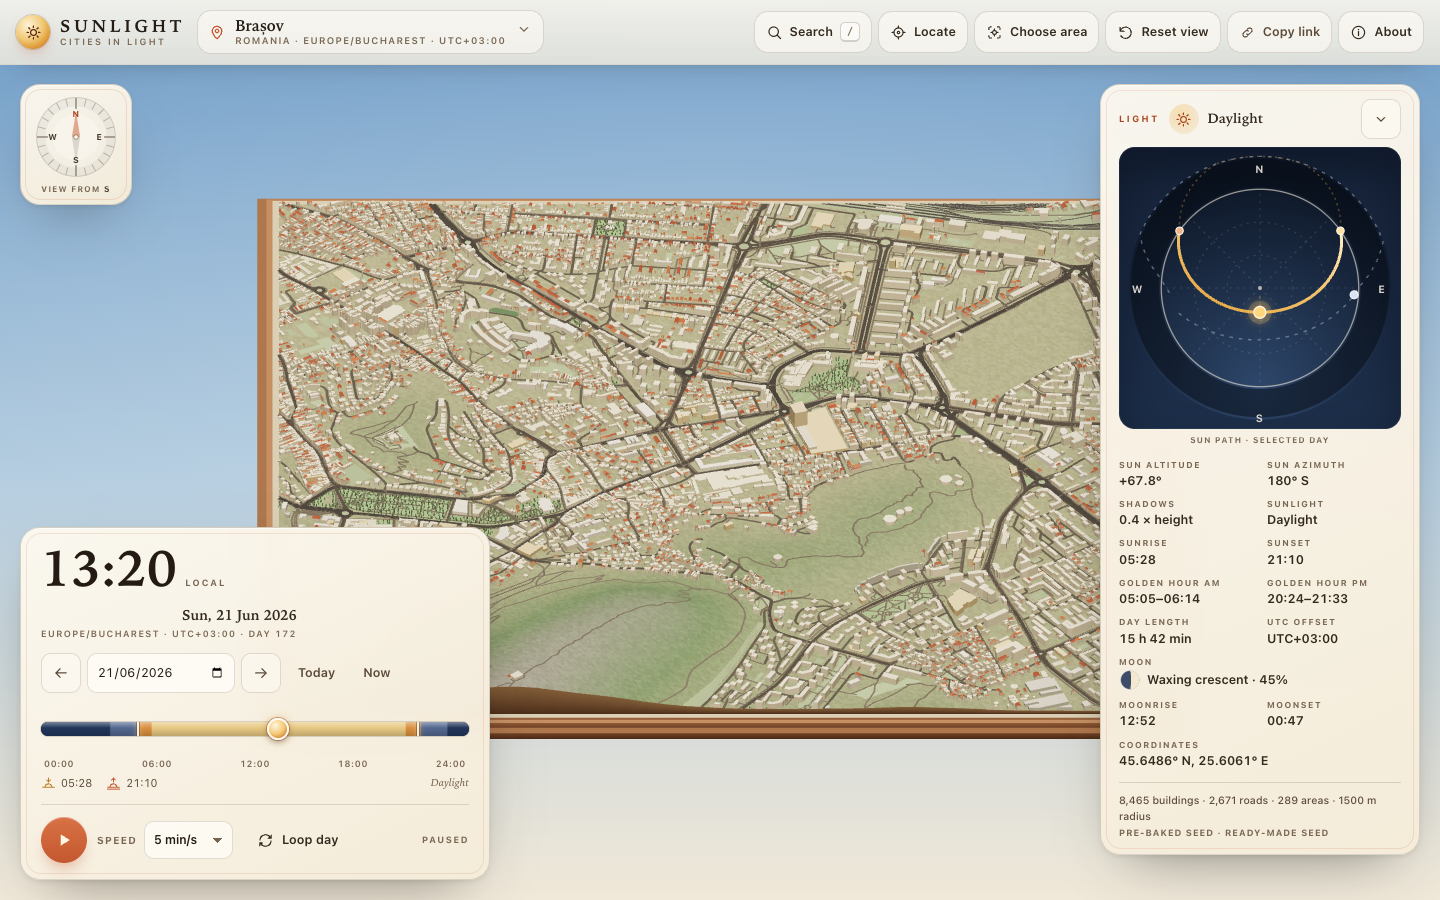
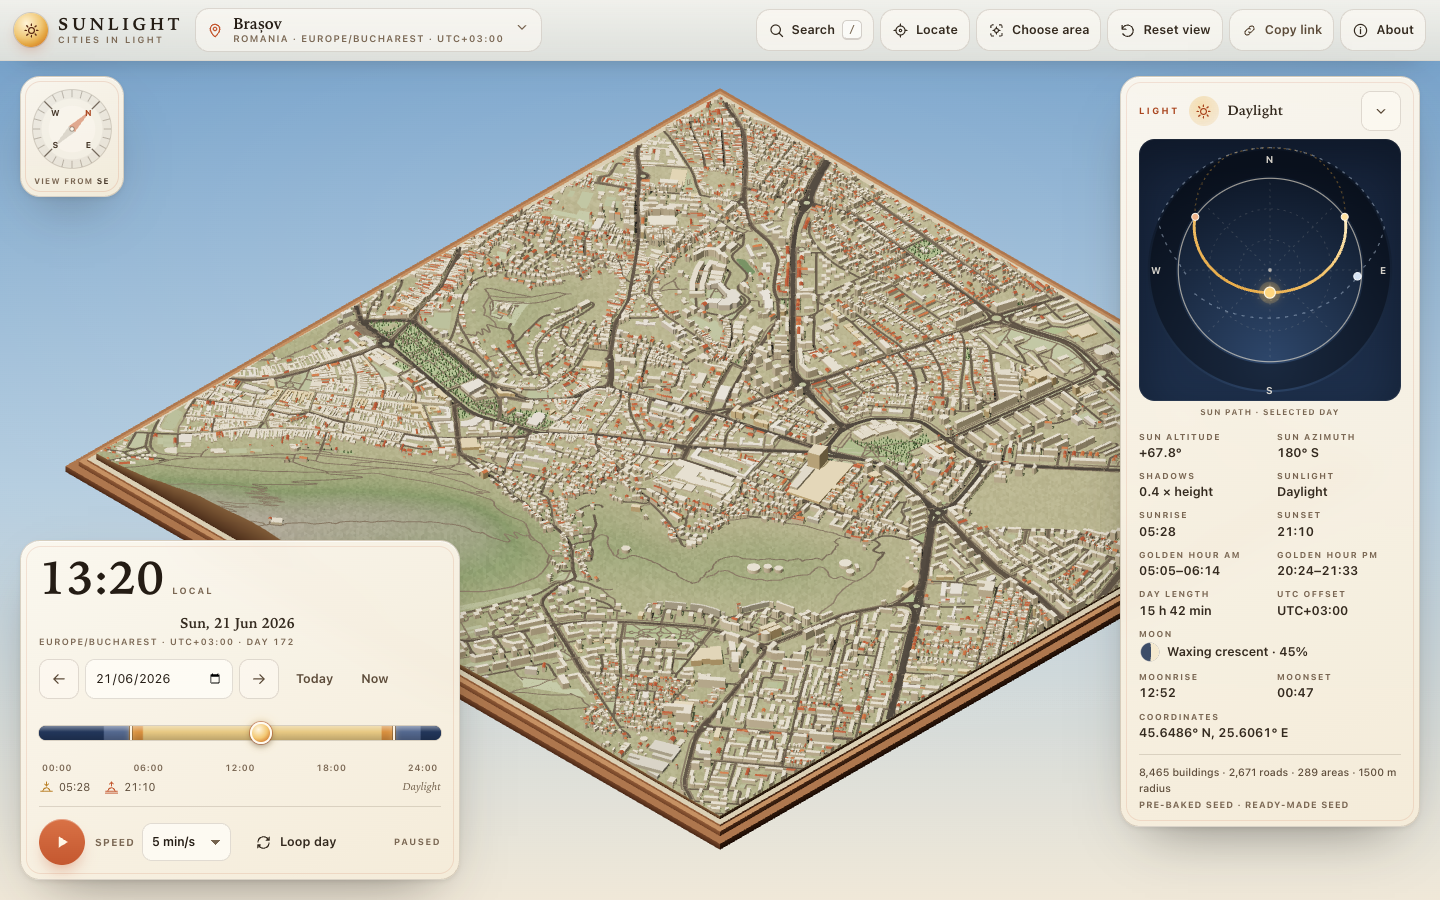
Default to NW-up isometric and compact the UI on phones

diff --git a/src/styles/app.css b/src/styles/app.css
@@ -2688,3 +2688,253 @@ body[data-picking='true'] #scene {
     transform: none;
   }
 }
+
+/* ==================================================================
+   Compact layout pass — reduce chrome so the diorama has room.
+   ================================================================== */
+
+@media (min-width: 681px) {
+  .sl-topbar {
+    min-height: 58px;
+    padding: calc(8px + var(--safe-top)) calc(14px + var(--safe-right)) 8px calc(14px + var(--safe-left));
+  }
+
+  .sl-time {
+    width: min(440px, calc(100vw - 40px));
+    gap: 11px;
+    padding: 16px 18px 14px;
+  }
+
+  .sl-clock-value {
+    font-size: clamp(36px, 4.6vw, 46px);
+  }
+
+  .sl-light {
+    top: calc(76px + var(--safe-top));
+    width: 300px;
+  }
+
+  .sl-compass {
+    top: calc(76px + var(--safe-top));
+    width: 104px;
+  }
+}
+
+@media (max-width: 680px) {
+  .sl-topbar {
+    min-height: 48px;
+    gap: 5px;
+    padding: calc(6px + var(--safe-top)) calc(8px + var(--safe-right)) 6px calc(8px + var(--safe-left));
+  }
+
+  .sl-brand-mark {
+    width: 26px;
+    height: 26px;
+  }
+
+  .sl-brand-mark .sl-ic {
+    width: 14px;
+    height: 14px;
+  }
+
+  .sl-city-chip {
+    min-height: 38px;
+    padding: 4px 8px;
+    gap: 6px;
+  }
+
+  .sl-city-chip-name {
+    font-size: 12.5px;
+  }
+
+  .sl-btn--icon {
+    width: 40px;
+    min-height: 40px;
+  }
+
+  .sl-btn--icon .sl-ic {
+    width: 15px;
+    height: 15px;
+  }
+
+  .sl-compass {
+    top: calc(56px + var(--safe-top));
+    width: 78px;
+    padding: 5px 5px 4px;
+    gap: 2px;
+  }
+
+  .sl-compass-rose {
+    width: 58px;
+    height: 58px;
+  }
+
+  .sl-compass-caption {
+    font-size: 7px;
+    letter-spacing: 0.06em;
+  }
+
+  .sl-time {
+    max-height: 58dvh;
+    padding: 10px 12px calc(8px + var(--safe-bottom));
+    gap: 7px;
+    border-radius: 18px 18px 0 0;
+  }
+
+  .sl-time::after {
+    inset: 4px;
+    border-radius: 14px;
+  }
+
+  .sl-time-head {
+    align-items: center;
+    flex-wrap: nowrap;
+    gap: 6px;
+  }
+
+  .sl-clock {
+    gap: 5px;
+  }
+
+  .sl-clock-value {
+    font-size: 32px;
+    line-height: 1;
+  }
+
+  .sl-clock-unit {
+    display: none;
+  }
+
+  .sl-date {
+    flex: 1;
+    text-align: right;
+  }
+
+  .sl-date-long {
+    font-size: 11.5px;
+  }
+
+  .sl-date-meta {
+    display: none;
+  }
+
+  .sl-date-row {
+    gap: 3px;
+  }
+
+  .sl-date-row .sl-icon-btn {
+    width: 34px;
+    height: 34px;
+    min-width: 34px;
+    border-radius: 8px;
+  }
+
+  .sl-date-input {
+    min-height: 34px;
+    min-width: 112px;
+    padding: 0 6px;
+    font-size: 11.5px;
+  }
+
+  .sl-date-row .sl-btn {
+    min-height: 34px;
+    padding: 0 6px;
+    font-size: 11px;
+  }
+
+  .sl-slider-block {
+    gap: 2px;
+  }
+
+  .sl-slider {
+    height: 34px;
+  }
+
+  .sl-range {
+    height: 34px;
+  }
+
+  .sl-range::-webkit-slider-runnable-track {
+    height: 34px;
+  }
+
+  .sl-range::-webkit-slider-thumb {
+    margin-top: 8px;
+    width: 18px;
+    height: 18px;
+  }
+
+  .sl-range::-moz-range-track {
+    height: 34px;
+  }
+
+  .sl-range::-moz-range-thumb {
+    width: 18px;
+    height: 18px;
+  }
+
+  .sl-slider-rail {
+    height: 10px;
+  }
+
+  .sl-slider-tick {
+    height: 18px;
+  }
+
+  .sl-scale {
+    font-size: 8px;
+  }
+
+  .sl-sun-row {
+    gap: 8px;
+    font-size: 9.5px;
+  }
+
+  .sl-sun-row .sl-ic {
+    width: 13px;
+    height: 13px;
+  }
+
+  .sl-transport {
+    gap: 5px;
+    padding-top: 7px;
+  }
+
+  .sl-play {
+    width: 40px;
+    height: 40px;
+  }
+
+  .sl-select {
+    min-height: 34px;
+    padding: 0 22px 0 7px;
+    font-size: 11px;
+  }
+
+  .sl-light-toggle-phone {
+    min-height: 34px;
+    padding: 0 8px;
+  }
+
+  .sl-light-toggle-phone .sl-btn-label {
+    display: inline;
+    font-size: 11px;
+  }
+
+  .sl-loop {
+    min-height: 34px;
+    padding: 0 6px;
+  }
+
+  .sl-loop .sl-btn-label {
+    display: none;
+  }
+
+  .sl-notices {
+    top: calc(54px + var(--safe-top));
+  }
+
+  .sl-area-pick {
+    top: calc(56px + var(--safe-top));
+  }
+}

diff --git a/src/ui/compass.ts b/src/ui/compass.ts
@@ -102,7 +102,7 @@ export function createCompass(ctx: UIContext): CompassHandle {
         <circle class="sl-compass-hub" cx="48" cy="48" r="2.4"/>
       </svg>
     </span>
-    <span class="sl-compass-caption">${viewFromLabel(180)}</span>
+    <span class="sl-compass-caption">${viewFromLabel(135)}</span>
   `
   );
   element.dataset.testid = 'compass';
@@ -114,7 +114,7 @@ export function createCompass(ctx: UIContext): CompassHandle {
   const caption = q<HTMLElement>(element, '.sl-compass-caption');
   const viewDirection = document.createElement('b');
   viewDirection.dataset.testid = 'compass-view';
-  viewDirection.textContent = compassDirection(180);
+  viewDirection.textContent = compassDirection(135);
   caption.replaceChildren(document.createTextNode('View from '), viewDirection);
   const labels = Array.from(element.querySelectorAll<SVGTextElement>('.sl-compass-label'));
 
@@ -147,7 +147,7 @@ export function createCompass(ctx: UIContext): CompassHandle {
     applyAzimuth(state.cameraAzimuthDeg);
   }
 
-  applyAzimuth(180);
+  applyAzimuth(135);
 
   return {
     element,

diff --git a/src/scene/camera.ts b/src/scene/camera.ts
@@ -11,9 +11,9 @@ import { panDeltaFromDrag, type PanView } from './light.ts';
 
 const DEG_TO_RAD = Math.PI / 180;
 
-/** Default isometric azimuth (degrees clockwise from north): camera due south,
- *  so world north points straight up on screen. */
-export const DEFAULT_AZIMUTH_DEG = 180;
+/** Default isometric azimuth (degrees clockwise from north): camera in the
+ *  south-east, so world north-west points straight up on screen. */
+export const DEFAULT_AZIMUTH_DEG = 135;
 /**
  * Azimuth used when computing a conservative camera fit. A square base
  * projects widest at the 45° diagonal, so fitting there also covers the 180°

diff --git a/tests/unit/scene-camera.test.ts b/tests/unit/scene-camera.test.ts
@@ -51,9 +51,9 @@ function close(actual: number, expected: number, tolerance = 1e-6, label = ''): 
   );
 }
 
-test('default isometric pose looks north (180° azimuth) / 35.264° pitch / 1x zoom', () => {
+test('default isometric pose looks south-east with NW up (135° azimuth) / 35.264° pitch / 1x zoom', () => {
   const pose = defaultPose(12, 4, -9);
-  assert.equal(pose.azimuthDeg, 180);
+  assert.equal(pose.azimuthDeg, 135);
   close(pose.pitchDeg, 35.264389682754654, 1e-9);
   assert.equal(pose.zoom, DEFAULT_ZOOM);
   assert.deepEqual([pose.targetX, pose.targetY, pose.targetZ], [12, 4, -9]);

diff --git a/src/scene/controls.ts b/src/scene/controls.ts
@@ -2,7 +2,7 @@
  * Diorama camera controls (pointer + touch), independent of the store/UI.
  *
  * Interaction contract:
- *  - default view                 → isometric from the south, north up
+ *  - default view                 → isometric from the south-east, NW up
  *  - left-drag (mouse)            → pan on the ground plane
  *  - right/middle-drag, shift-drag → orbit (azimuth 0-360, pitch 18-72°)
  *  - wheel / trackpad-pinch / touch pinch → zoom (0.45x-8x)

diff --git a/src/app/state.ts b/src/app/state.ts
@@ -112,7 +112,7 @@ export function createInitialState(): AppState {
     generatingName: null,
     error: null,
     current: null,
-    cameraAzimuthDeg: 180,
+    cameraAzimuthDeg: 135,
     hover: null,
     pickingArea: false,
     notices: [],

diff --git a/README.md b/README.md
@@ -8,7 +8,7 @@ Pick a city anywhere in the world (or use your current location), drag to explor
 
 - **Any city** — search a bundled index of ~65,000 populated places, or let the browser locate the nearest one. A custom “my exact location” point is supported too.
 - **Explore wider** — each city model covers a 3 km × 3 km core by default, and **Choose area** lets you recenter the diorama on any point you click. Switching cities always starts at that city’s current local date and time.
-- **Know the place** — hover or tap named landmarks, streets, parks and waterways for a tooltip with its name, kind and building height. A compact compass rotates with the camera and doubles as a reset-view button. The default view is **north-up** and you can zoom from the whole city down to a few blocks (**0.45×–8×**).
+- **Know the place** — hover or tap named landmarks, streets, parks and waterways for a tooltip with its name, kind and building height. A compact compass rotates with the camera and doubles as a reset-view button. The default view is **NW-up** and you can zoom from the whole city down to a few blocks (**0.45×–8×**).
 - **Real geometry & elevation** — the server fetches OpenStreetMap building footprints, roads, water, parks and railways, then samples public elevation tiles so hills, river valleys and mountains such as Brașov's Tâmpa shape the diorama instead of rendering as flat parks. The result is a compact low-poly model of a 3 km × 3 km city core with names and landmark metadata baked in. Terrain is baked into the seed models and cached with live models; if an elevation source is unreachable the model gracefully falls back to flat ground.
 - **Real light** — solar and lunar altitude/azimuth computed with `astronomy-engine`; real-time sun and moon shadows on the model, twilight transitions, moon phase brightness and polar day/night handling.
 - **Time travel** — any local date 1900–2100 and minute of day; play/pause at 1×–60× simulated minutes per second, loop a day, or jump to sunrise/sunset/golden hour.
@@ -20,7 +20,7 @@ Pick a city anywhere in the world (or use your current location), drag to explor
 ## Screenshots
 
 ![Brașov at summer noon](qa/shots/brasov-noon.png)
-*Brașov, 21 June 2026, 13:20 — high summer sun over the old town.*
+*Brașov, 21 June 2026, 13:20 — NW-up diorama, high summer sun over the old town and the forested Tâmpa slope in the foreground.*
 
 ![Brașov at golden hour](qa/shots/brasov-golden.png)
 *The same day at 20:45 — low golden light and 18× long shadows.*
@@ -29,10 +29,10 @@ Pick a city anywhere in the world (or use your current location), drag to explor
 *23:30 — moonlit diorama with a waxing crescent and moon shadows.*
 
 ![Mobile layout](qa/shots/brasov-mobile.png)
-*Phone layout with the collaborative time console and Sun & Moon sheet.*
+*Phone layout with a compact top bar and shorter time sheet, leaving more room for the diorama and its controls.*
 
 ![Named feature tooltip](qa/shots/feature-tooltip.png)
-*Hover or tap a named street or landmark for its placard; the compass in the top-left follows the camera.*
+*Hover or tap a named street or landmark for its placard; the compass in the top-left follows the camera. The UI collapses to a compact top bar and shorter bottom sheet on phones.*
 
 ## Quick start
 

diff --git a/qa/report.md b/qa/report.md
@@ -37,7 +37,7 @@ Tests: `tests/e2e/app.test.mjs` (functional), `tests/e2e/visual.test.mjs` (scree
 | 10 | Play/pause advances and holds simulated time | PASS |
 | 11 | Escape closes search and About dialogs | PASS |
 | 12 | Mobile 390×844: controls visible/in-viewport, no horizontal overflow, touch targets | PASS |
-| 13 | **Wide terrain model**: 1500 m radius → 5,000+ buildings, named landmarks/roads, 49×49 heightfield with 113.5 m relief; north-up default (compass N on top), compass rotates with camera and resets the view; 8× zoom available | PASS |
+| 13 | **Wide terrain model**: 1500 m radius → 5,000+ buildings, named landmarks/roads, 49×49 heightfield with 113.5 m relief; NW-up default (compass NW toward the top), compass rotates with camera and resets the view; 8× zoom available | PASS |
 | 14 | **Feature tooltips**: hover shows the named feature under the pointer, click pins it with a close button, Escape dismisses | PASS |
 | 15 | **Choose area**: button enables, pressed state, hint banner, body crosshair state, Cancel + Escape exit the mode | PASS (manual full recenter verified against the fixture provider: new `pt-…` model, city “Near Brașov”, date/time preserved) |
 | 16 | **City switch → new city's local now**: historical deep link then switch to Cluj → local today and current minute | PASS |
@@ -53,10 +53,10 @@ No page errors or console errors in any of the 23 browser runs.
 
 | File | State |
 |------|-------|
-| `brasov-noon.png` | 2026-06-21 13:20, sun 67.8° S; wide north-up diorama, terrain (Tâmpa in the foreground), compass, Choose area |
+| `brasov-noon.png` | 2026-06-21 13:20, sun 67.8° S; wide NW-up diorama, terrain (Tâmpa in the foreground), compass, Choose area |
 | `brasov-golden.png` | 20:45, sun 3.1° WNW, long shadows across the terrain |
 | `brasov-night.png` | 23:30, sun −16°, moonlight |
-| `brasov-mobile.png` | 390×844 @2×, noon, compass + bottom sheet |
+| `brasov-mobile.png` | 390×844 @2×, noon, compact compass + 218 px bottom sheet |
 | `brasov-morning.png` | 07:30, sun 18.4° ENE — opposite shadow direction evidence (re-run if present) |
 | `feature-tooltip.png` | pinned tooltip for “Strada Poarta Șchei · Primary street” |
 
@@ -83,4 +83,4 @@ Visual review: composition and warm placard design remain coherent; panels do no
 
 ## Recommendation
 
-Accept the v3 pass: real elevation (Tâmpa now rises as a coherent forested mountain rather than a flat park), a north-up default view with 8× zoom, wide 3 km models, landmark/road tooltips, orientation compass, choose-area recentering, and city-local-now switching are all integrated and verified. Remaining work is polish (portrait camera framing, hardware-GPU FPS pass) rather than functional defects.
+Accept the v3 pass: real elevation (Tâmpa now rises as a coherent forested mountain rather than a flat park), a NW-up default view with 8× zoom, wide 3 km models, landmark/road tooltips, orientation compass, choose-area recentering, and city-local-now switching are all integrated and verified. Remaining work is polish (portrait camera framing, hardware-GPU FPS pass) rather than functional defects.

diff --git a/docs/ARCHITECTURE.md b/docs/ARCHITECTURE.md
@@ -163,7 +163,7 @@ Stored gzipped at `CACHE_DIR/models/<key>.json.gz`; see `shared/types.ts` for th
 
 ## 8. Rendering and lighting
 
-- **Camera**: orthographic, isometric pitch (35.264°) default from the south with north up (azimuth 180°), 0.45–8× zoom, fit to the ~3.16 km base and up to ~120 m of relief. Pan on the ground plane, orbit, zoom, reset; damped and clamped. Sun direction is world-fixed and independent of the camera.
+- **Camera**: orthographic, isometric pitch (35.264°) default from the south-east with north-west up (azimuth 135°), 0.45–8× zoom, fit to the ~3.16 km base and up to ~120 m of relief. Pan on the ground plane, orbit, zoom, reset; damped and clamped. Sun direction is world-fixed and independent of the camera.
 - **Geometry**: merged vertex-coloured, flat-shaded terrain heightfield with perimeter skirt, merged buildings, roads/rail ribbons and earcut-triangulated areas with holes draped over the heightfield; steep forest polygons are baked into the terrain colour to avoid sticker-like overlays on slopes; a warm clay-edged plinth. One draw call per material family, no per-frame allocations. A parallel per-triangle feature-index table lets the scene raycast the merged meshes and resolve the named building/road/area under the pointer.
 - **Interaction**: the SPA raycasts on throttled pointer hover and on taps for named-feature tooltips; **Choose area** turns the next click into a new model centre (inverse-projected to WGS84 and generated/cached like any point target); the orientation compass rotates with the camera.
 - **Lights**: sun and moon `DirectionalLight`s + hemisphere ambient. Sun shadows during the day; moon shadows at night under the thresholds above; adaptive orthographic shadow camera for long low-sun shadows; PCFSoft 2048 (1024 low quality).
